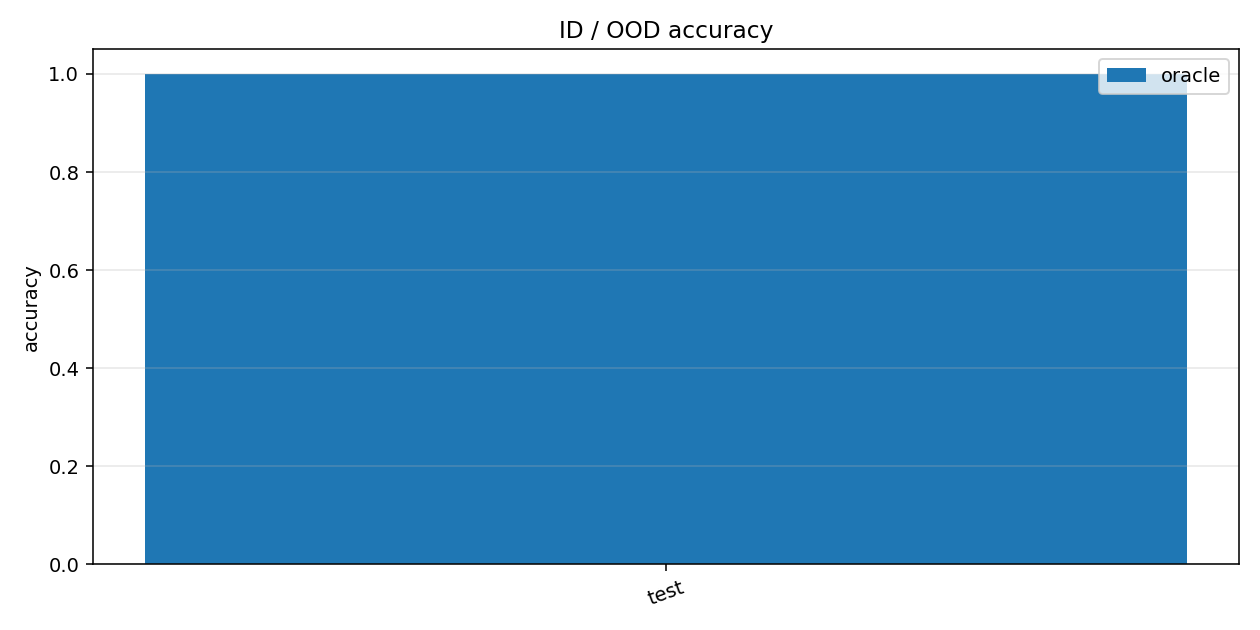
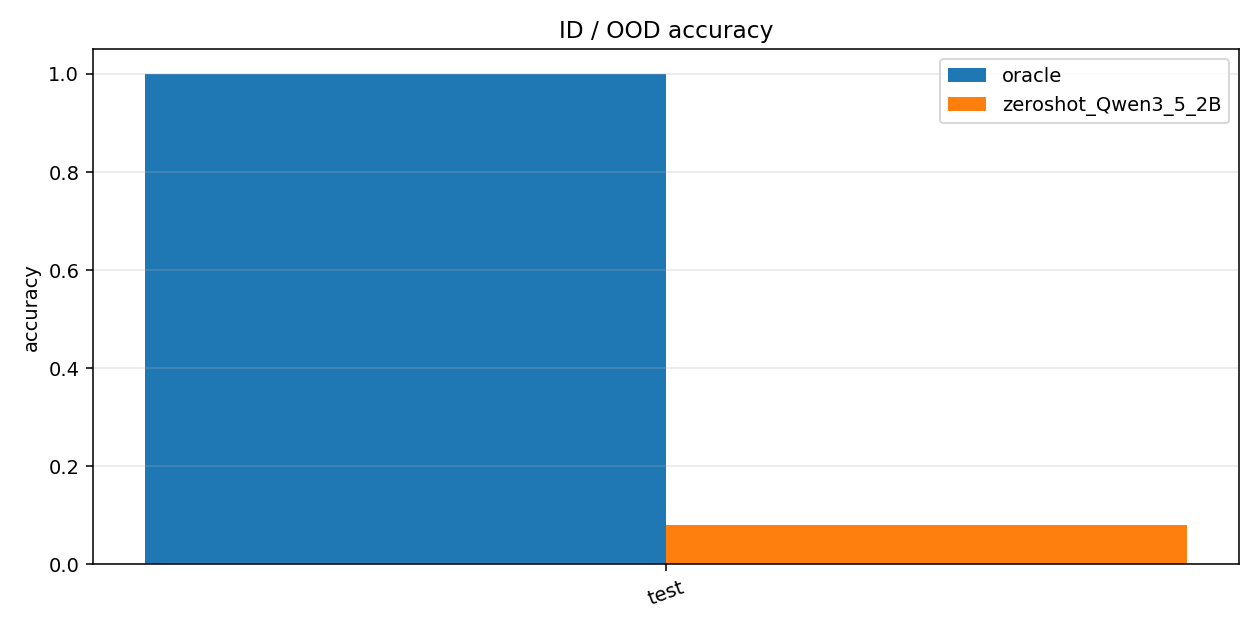
Harden eval for scalar JSON answers; viz package; Space gallery; Explorer venv bootstrap.

diff --git a/phil/eval/metrics.py b/phil/eval/metrics.py
@@ -71,6 +71,12 @@ def parse_t1_answer(raw: Any) -> dict[str, Any] | None:
     return None
 
 
+def _as_1d_list(x: Any) -> list[float]:
+    """Normalize scalars / nested lists to a flat float list."""
+    arr = np.asarray(x, dtype=float).reshape(-1)
+    return arr.tolist()
+
+
 def t1_mae(pred: dict[str, Any] | None, gold: dict[str, Any]) -> dict[str, float]:
     if pred is None or "objects" not in pred:
         return {"pos_mae": float("nan"), "vel_mae": float("nan"), "ok": 0.0}
@@ -82,10 +88,10 @@ def t1_mae(pred: dict[str, Any] | None, gold: dict[str, Any]) -> dict[str, float
         if g is None:
             continue
         try:
-            p = np.asarray(o["position"], dtype=float)
-            gp = np.asarray(g["position"], dtype=float)
-            v = np.asarray(o["velocity"], dtype=float)
-            gv = np.asarray(g["velocity"], dtype=float)
+            p = np.asarray(_as_1d_list(o["position"]), dtype=float)
+            gp = np.asarray(_as_1d_list(g["position"]), dtype=float)
+            v = np.asarray(_as_1d_list(o["velocity"]), dtype=float)
+            gv = np.asarray(_as_1d_list(g["velocity"]), dtype=float)
         except (KeyError, TypeError, ValueError):
             continue
         if p.shape != gp.shape or v.shape != gv.shape:
@@ -112,16 +118,18 @@ def t1_tolerance_correct(pred: dict[str, Any] | None, gold: dict[str, Any], tol:
         if g is None:
             return False
         try:
-            p = np.asarray(o["position"], dtype=float)
-            gp = np.asarray(g["position"], dtype=float)
-            v = np.asarray(o["velocity"], dtype=float)
-            gv = np.asarray(g["velocity"], dtype=float)
+            p = _as_1d_list(o["position"])
+            gp = _as_1d_list(g["position"])
+            v = _as_1d_list(o["velocity"])
+            gv = _as_1d_list(g["velocity"])
         except (KeyError, TypeError, ValueError):
             return False
-        for a, b in zip(p.tolist(), gp.tolist()):
+        if len(p) != len(gp) or len(v) != len(gv):
+            return False
+        for a, b in zip(p, gp):
             if relative_error(a, b) > tol and abs(a - b) > 1e-3:
                 return False
-        for a, b in zip(v.tolist(), gv.tolist()):
+        for a, b in zip(v, gv):
             if relative_error(a, b) > tol and abs(a - b) > 1e-3:
                 return False
     return True

diff --git a/phil/eval/eval.py b/phil/eval/eval.py
@@ -48,13 +48,15 @@ def score_example(gold: dict[str, Any], pred_row: dict[str, Any], tol: float = 0
         out["phys_violation"] = physical_violation_elastic(parsed, gold["gold_spec"])
         # aggregate relative error on positions
         if parsed and mae["ok"]:
+            from phil.eval.metrics import _as_1d_list
+
             errs = []
             gmap = {o["id"]: o for o in gold["gold_answer"]["objects"]}
             for o in parsed.get("objects", []):
                 g = gmap.get(o["id"])
                 if not g:
                     continue
-                for a, b in zip(o["position"], g["position"]):
+                for a, b in zip(_as_1d_list(o["position"]), _as_1d_list(g["position"])):
                     errs.append(relative_error(float(a), float(b)))
             out["rel_err"] = float(np.mean(errs)) if errs else None
     elif task == "T2":

diff --git a/space/app.py b/space/app.py
@@ -144,6 +144,10 @@ Compare placeholders for **base** vs **LoRA** until GPU model serving is enabled
         example_dd.change(on_example, inputs=[example_dd], outputs=[inp])
         btn.click(simulate_and_plot, inputs=[inp], outputs=[plot, sim_out, base_out, lora_out, status])
 
+        gr.Markdown("## Result snapshots")
+        res = sorted(str(p) for p in (SPACE_ROOT / "results_figs").glob("*.png"))
+        if res:
+            gr.Gallery(value=res, label="Oracle / metrics figures", columns=3, height=280)
         gr.Markdown("## Dataset gallery")
         imgs = gallery_images()
         if imgs:
